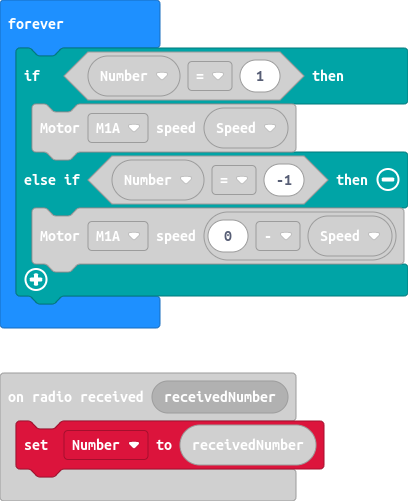
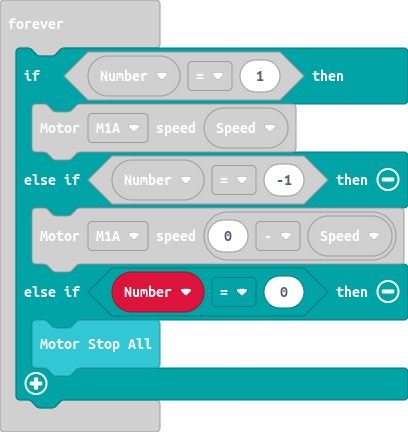
stop motor if speed = 0

diff --git a/main.ts b/main.ts
@@ -39,5 +39,7 @@ basic.forever(function () {
         robotbit.MotorRun(robotbit.Motors.M1A, Speed)
     } else if (Number2 == -1) {
         robotbit.MotorRun(robotbit.Motors.M1A, 0 - Speed)
+    } else if (Number2 == 0) {
+        robotbit.MotorStopAll()
     }
 })
